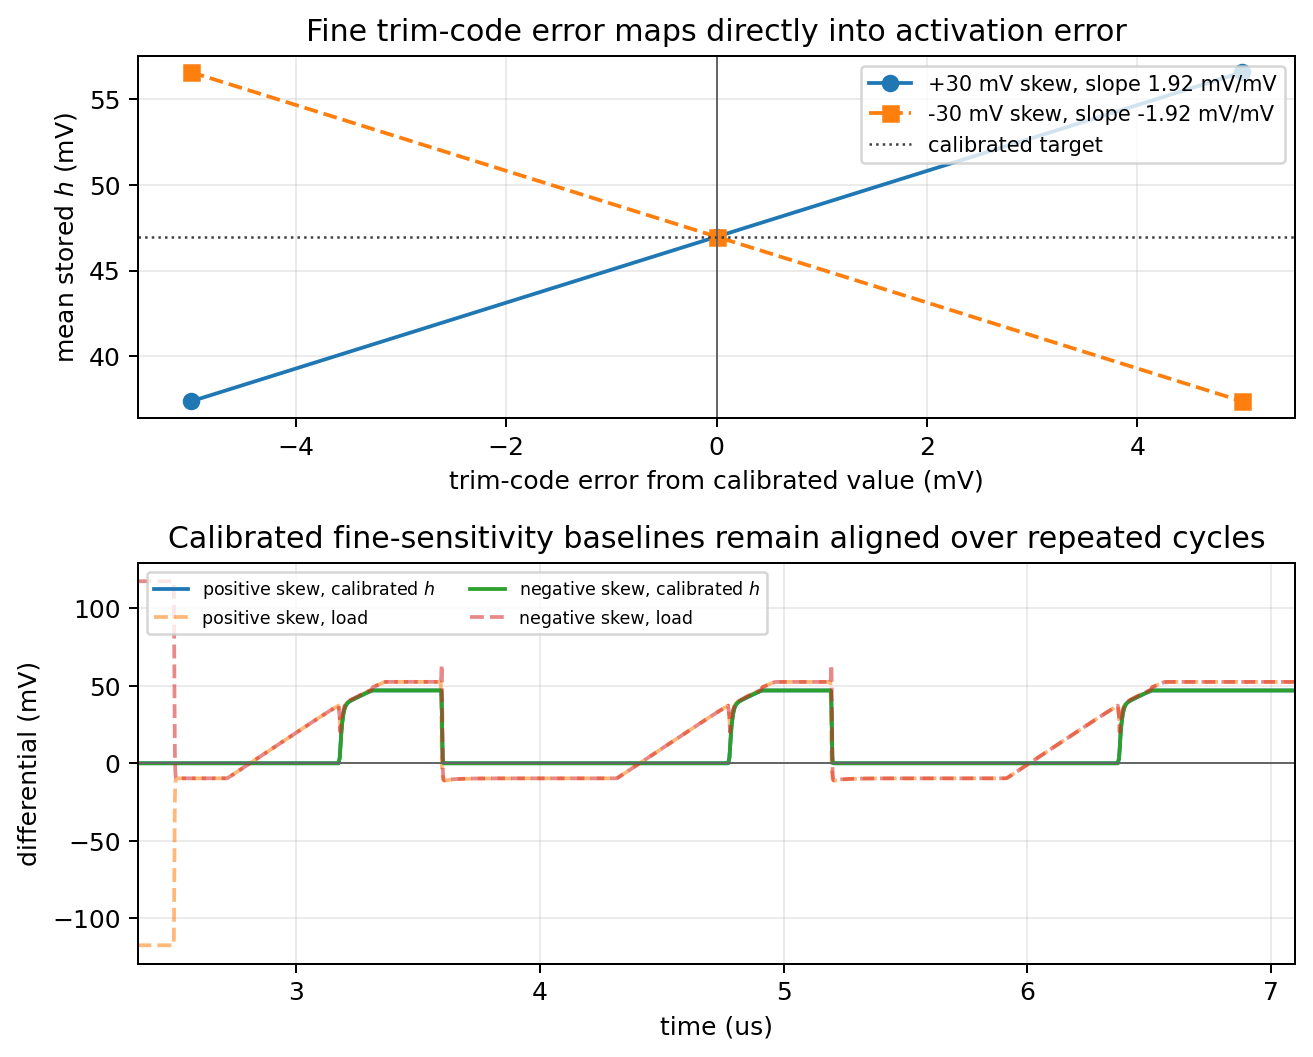
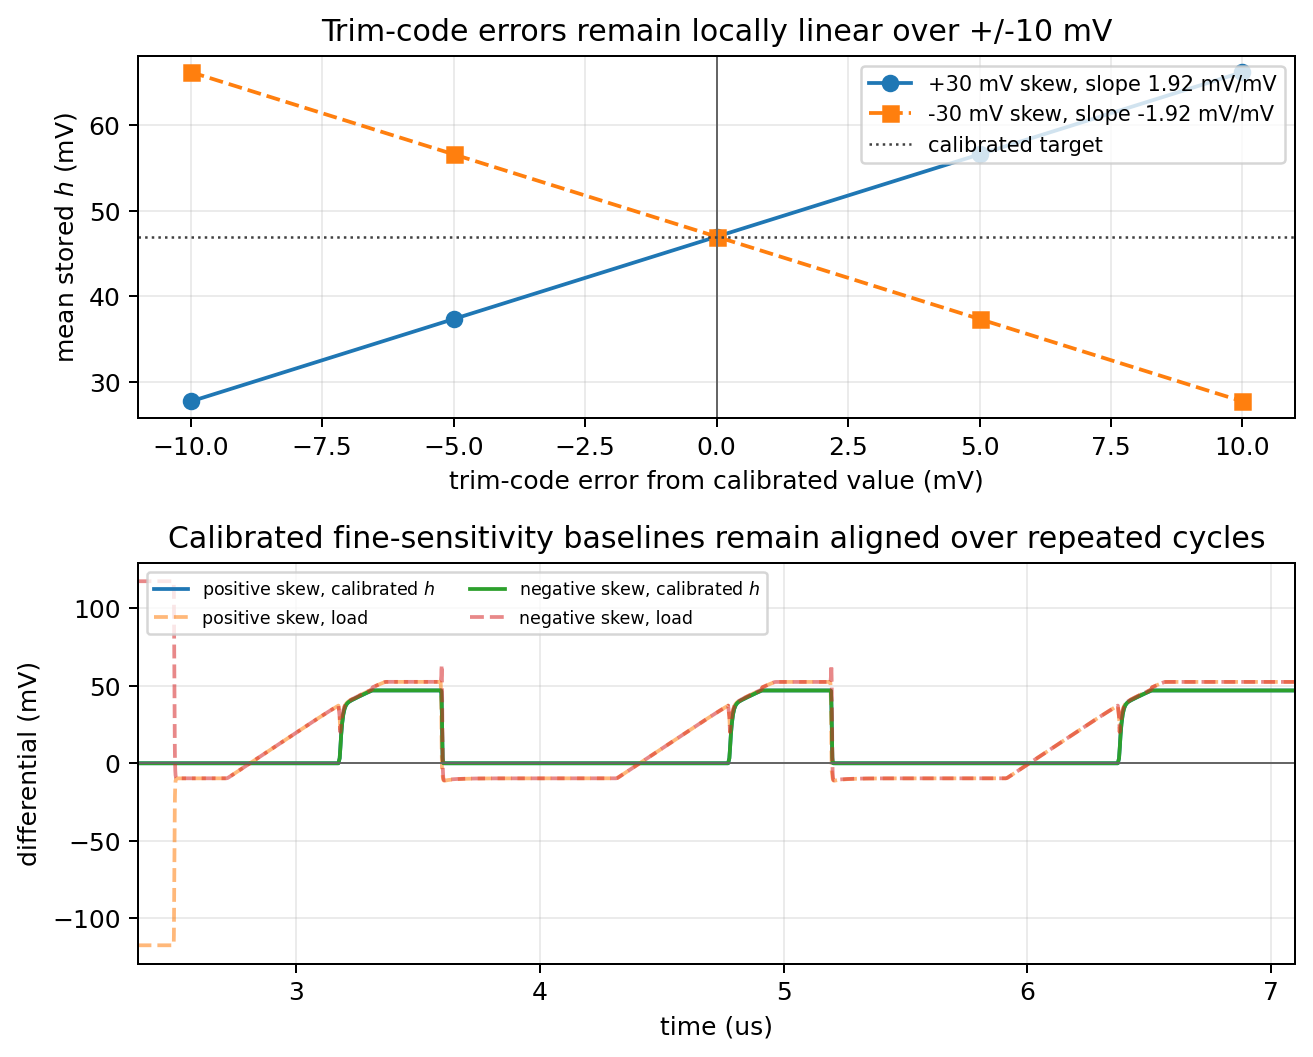
Extend shifted-gate trim linearity window

diff --git a/spice/run_mos_cell_characterization.py b/spice/run_mos_cell_characterization.py
@@ -10508,12 +10508,16 @@ quit
     )
 
     shift_polsens_cases = [
+        ("pm30_neg45", "+30 mV skew, -45 mV trim", 0.580, 0.520, -0.045, "positive skew", -10.0),
         ("pm30_neg50", "+30 mV skew, -50 mV trim", 0.580, 0.520, -0.050, "positive skew", -5.0),
         ("pm30_neg55", "+30 mV skew, -55 mV trim", 0.580, 0.520, -0.055, "positive skew", 0.0),
         ("pm30_neg60", "+30 mV skew, -60 mV trim", 0.580, 0.520, -0.060, "positive skew", 5.0),
+        ("pm30_neg65", "+30 mV skew, -65 mV trim", 0.580, 0.520, -0.065, "positive skew", 10.0),
+        ("mp30_pos55", "-30 mV skew, +55 mV trim", 0.520, 0.580, 0.055, "negative skew", -10.0),
         ("mp30_pos60", "-30 mV skew, +60 mV trim", 0.520, 0.580, 0.060, "negative skew", -5.0),
         ("mp30_pos65", "-30 mV skew, +65 mV trim", 0.520, 0.580, 0.065, "negative skew", 0.0),
         ("mp30_pos70", "-30 mV skew, +70 mV trim", 0.520, 0.580, 0.070, "negative skew", 5.0),
+        ("mp30_pos75", "-30 mV skew, +75 mV trim", 0.520, 0.580, 0.075, "negative skew", 10.0),
     ]
     shift_polsens_trim_error_mv = []
     shift_polsens_h_samples = []
@@ -10574,8 +10578,14 @@ quit
     shift_polsens_h_samples = np.array(shift_polsens_h_samples)
     shift_polsens_h_mean = np.mean(shift_polsens_h_samples, axis=1)
     shift_polsens_index = {case[0]: idx for idx, case in enumerate(shift_polsens_cases)}
-    pm_sens_order = [shift_polsens_index[name] for name in ["pm30_neg50", "pm30_neg55", "pm30_neg60"]]
-    mp_sens_order = [shift_polsens_index[name] for name in ["mp30_pos60", "mp30_pos65", "mp30_pos70"]]
+    pm_sens_order = [
+        shift_polsens_index[name]
+        for name in ["pm30_neg45", "pm30_neg50", "pm30_neg55", "pm30_neg60", "pm30_neg65"]
+    ]
+    mp_sens_order = [
+        shift_polsens_index[name]
+        for name in ["mp30_pos55", "mp30_pos60", "mp30_pos65", "mp30_pos70", "mp30_pos75"]
+    ]
     pm_slope = float(
         np.polyfit(
             shift_polsens_trim_error_mv[pm_sens_order],
@@ -10619,26 +10629,26 @@ quit
             np.abs(
                 1e3
                 * (
-                    shift_polsens_h_mean[[shift_polsens_index["pm30_neg50"], shift_polsens_index["pm30_neg60"]]]
+                    shift_polsens_h_mean[[shift_polsens_index["pm30_neg45"], shift_polsens_index["pm30_neg65"]]]
                     - shift_polsens_h_mean[shift_polsens_index["pm30_neg55"]]
                 )
             )
         )
-        > 7.0,
-        "+/-5 mV trim-code errors should be visibly resolvable on the +30 mV skew branch",
+        > 15.0,
+        "+/-10 mV trim-code errors should stay visibly resolvable on the +30 mV skew branch",
     )
     require(
         np.max(
             np.abs(
                 1e3
                 * (
-                    shift_polsens_h_mean[[shift_polsens_index["mp30_pos60"], shift_polsens_index["mp30_pos70"]]]
+                    shift_polsens_h_mean[[shift_polsens_index["mp30_pos55"], shift_polsens_index["mp30_pos75"]]]
                     - shift_polsens_h_mean[shift_polsens_index["mp30_pos65"]]
                 )
             )
         )
-        > 7.0,
-        "+/-5 mV trim-code errors should be visibly resolvable on the -30 mV skew branch",
+        > 15.0,
+        "+/-10 mV trim-code errors should stay visibly resolvable on the -30 mV skew branch",
     )
 
     shift_polref_cases = [
@@ -13118,7 +13128,7 @@ quit
     )
     shift_polsens_axes[0].set_xlabel("trim-code error from calibrated value (mV)")
     shift_polsens_axes[0].set_ylabel("mean stored $h$ (mV)")
-    shift_polsens_axes[0].set_title("Fine trim-code error maps directly into activation error")
+    shift_polsens_axes[0].set_title("Trim-code errors remain locally linear over +/-10 mV")
     shift_polsens_axes[0].grid(True, alpha=0.25)
     shift_polsens_axes[0].legend(loc="upper right", fontsize="small")
     for group, trim_error_mv, pst, load, store in shift_polsens_traces:

diff --git a/docs/spicenn_progress_note.tex b/docs/spicenn_progress_note.tex
@@ -2197,13 +2197,15 @@ must satisfy before it can replace the current behavioral prototype.
   split-reset network, \(zcm=0.75\) V read common mode, \(96\,\mu\mathrm{m}\)
   shifted-gate forward pair, and repeated read/reset/store schedule as
   Fig.~\ref{fig:mos-hidden-writer-restored-gate-hybrid-update-forward-guard-forward-pair-96u-shifted-gate-polarity-calibration-ngspice},
-  but offsets the two calibrated trim codes by \(\pm5\) mV.  The \(+30\) mV
-  threshold-skew branch stores \(37.348,46.972,\) and \(56.589\) mV for
-  \(-5,0,\) and \(+5\) mV trim-code error around the \(-55\) mV code.  The
-  \(-30\) mV threshold-skew branch stores \(56.596,46.978,\) and
-  \(37.355\) mV for \(-5,0,\) and \(+5\) mV error around the \(+65\) mV
-  code.  The fitted slopes are \(+1.924\) and \(-1.924\) mV activation per
-  mV trim-code error, respectively.  The reset network still samples the
+  but offsets the two calibrated trim codes across a \(\pm10\) mV local
+  window.  The \(+30\) mV threshold-skew branch stores
+  \(27.720,37.348,46.972,56.589,\) and \(66.200\) mV for
+  \(-10,-5,0,+5,\) and \(+10\) mV trim-code error around the \(-55\) mV
+  code.  The \(-30\) mV threshold-skew branch stores
+  \(66.207,56.596,46.978,37.355,\) and \(27.727\) mV for the same error
+  sequence around the \(+65\) mV code.  The fitted slopes are \(+1.924\) and
+  \(-1.924\) mV activation per mV trim-code error, respectively.  The reset
+  network still samples the
   requested gate differential to about \(0.003\) mV and holds common mode
   near \(0.90\) V, so this plot is not a reset-switch failure; it is the
   expected analog calibration precision requirement for the trimmed

diff --git a/engineering_log.md b/engineering_log.md
@@ -2,6 +2,7 @@
 
 ## 2026-05-25
 
+- Extended the shifted-gate fine trim-code sensitivity check from a three-point \(\pm5\) mV probe to a five-point \(\pm10\) mV local linearity window. For the \(+30\) mV skew branch, \(-10/-5/0/+5/+10\) mV trim-code errors store \(27.720/37.348/46.972/56.589/66.200\) mV. For the \(-30\) mV skew branch, the same error sequence stores \(66.207/56.596/46.978/37.355/27.727\) mV. Both fitted slopes stay at about \(1.924\) mV activation per mV trim-code error with opposite signs. The calibration rule is now a local linear operating window, not just a single finite-difference sensitivity.
 - Added a shifted-gate fine trim-code sensitivity check around the severe-polarity calibration points. The new ngspice family keeps the same physical MOS split reset, \(zcm=0.75\) V, 96 um forward pair, and repeated read/reset/store schedule, then offsets the calibrated \(+30\) mV skew / \(-55\) mV trim and \(-30\) mV skew / \(+65\) mV trim by \(\pm5\) mV. Both calibrated branches still store \(46.972/46.978\) mV. The \(+30\) mV skew branch stores \(37.348/46.972/56.589\) mV for \(-5/0/+5\) mV trim-code error, and the \(-30\) mV skew branch stores \(56.596/46.978/37.355\) mV. The measured local sensitivity is therefore about \(1.924\) mV of activation per mV of trim-code error, with opposite sign for the opposite skew polarity. This turns the qualitative "differential trim delivery is sensitive" note into a concrete calibration-precision requirement.
 - Added a MOS startup-precharge strength-margin check for the shifted-gate trim-reference reservoir. The new ngspice fixture keeps the cold 250 pF reservoirs, 100 kOhm trim sources, 5 pF shifted gates, and ordinary MOS reset, but scales the temporary precharge transmission gate around the nominal 300/900 um NMOS/PMOS path. With a 20 ns startup pulse, 0.125x and 0.25x devices remain too weak at 29.045/34.325 mV and 15.368/18.164 mV trim error for the -55/+65 mV branches. A 0.5x path crosses the 6 mV gate at 3.958/4.687 mV error with 0.845 V common mode, while the nominal 1.0x path reaches the initialized-reservoir floor at 1.146/1.355 mV error with 0.896 V common mode. Extending 0.25x to 40 ns also passes at 4.786/5.657 mV. The startup rule is now a width-time tradeoff, not a magic nominal switch.
 - Added a MOS startup-precharge recovery check for the passive shifted-gate trim-reference reservoir. The new ngspice fixture starts the 250 pF local reservoirs cold, keeps the normal 100 kOhm trim sources, adds only a temporary 300/900 um NMOS/PMOS transmission-gate precharge path, then lets the ordinary MOS reset sample into the 5 pF shifted gates. Without precharge the -55/+65 mV trim branches reproduce the cold failure at 49.618/58.640 mV trim error and 0.106 V common mode. A 10 ns precharge recovers to 2.774/3.309 mV error at 0.869 V common mode, and 20 ns reaches initialized-reservoir accuracy at 1.147/1.356 mV error with 0.896 V common mode. This turns the prior startup caveat into a concrete hardware rule: use a short low-impedance MOS precharge phase before the first calibrated reset.
